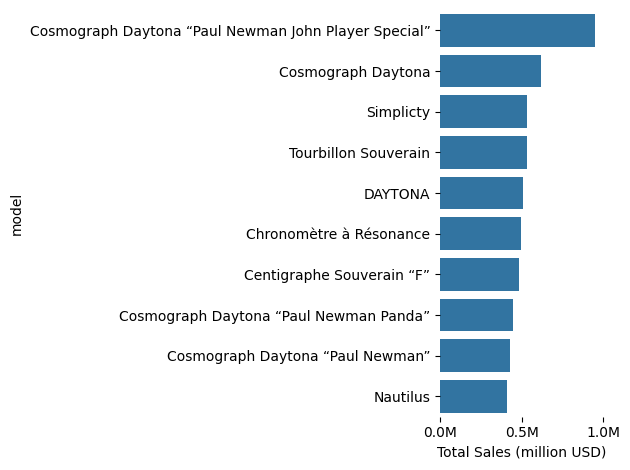
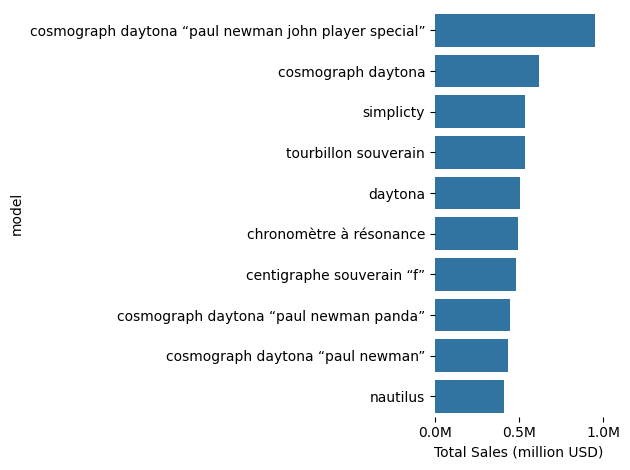
fixed casing error

diff --git a/docs/index.html b/docs/index.html
@@ -144,20 +144,20 @@
                         <div class="brand-item">
                             <img src="images/daytona.jpg" alt="Cosmograph daytona">
                             <h4>Cosmograph Daytona “Paul Newman John Player Special”</h4>
-                            <strong>4,930,775 USD</strong>
+                            <strong>952,500USD</strong>
                         </div>
             
                         <!-- Example of another brand (Rolex) -->
                         <div class="brand-item">
                             <img src="images/cosmo_daytona.jpg" alt="Rolex">
                             <h4>Cosmograph Daytona</h4>
-                            <strong>952,500 USD</strong>
+                            <strong>619,760 USD</strong>
                         </div>
 
                         <div class="brand-item">
                             <img src="images/simplicty.jpg" alt="Rolex">
                             <h4>Simplictly</h4>
-                            <strong>619,760 USD</strong>
+                            <strong>533,400 USD</strong>
                         </div>
 
                         <div class="brand-item">
@@ -168,7 +168,7 @@
                         <div class="brand-item">
                             <img src="images/chrono.jpg" alt="Rolex">
                             <h4>Chronomètre à Résonance</h4>
-                            <strong>495,300 USD</strong>
+                            <strong>509,040 USD</strong>
                         </div>
                     </div>
             
@@ -183,7 +183,7 @@
                     <div class="text-section">
                         <!-- The analysis paragraph below the top brands -->
                         <p class="analysis-text">
-                            The <strong>Cosmograph Daytona “Paul Newman John Player Special”</strong> led sales with an impressive total of $4,930,775  followed closely by other Daytona variants. This reinforces the popularity of the Daytona model as a collector's favorite. Other notable models include F.P. Journe's Simplicity and Tourbillon Souverain, both achieving significant sales, confirming their status among the most sought-after independent and artisanal pieces.
+                            The <strong>Cosmograph Daytona “Paul Newman John Player Special”</strong> led sales with an impressive total of $952,500  followed closely by other Daytona variants. This reinforces the popularity of the Daytona model as a collector's favorite. Other notable models include F.P. Journe's Simplicity and Tourbillon Souverain, both achieving significant sales, confirming their status among the most sought-after independent and artisanal pieces.
                
                         </p>
                     </div>
